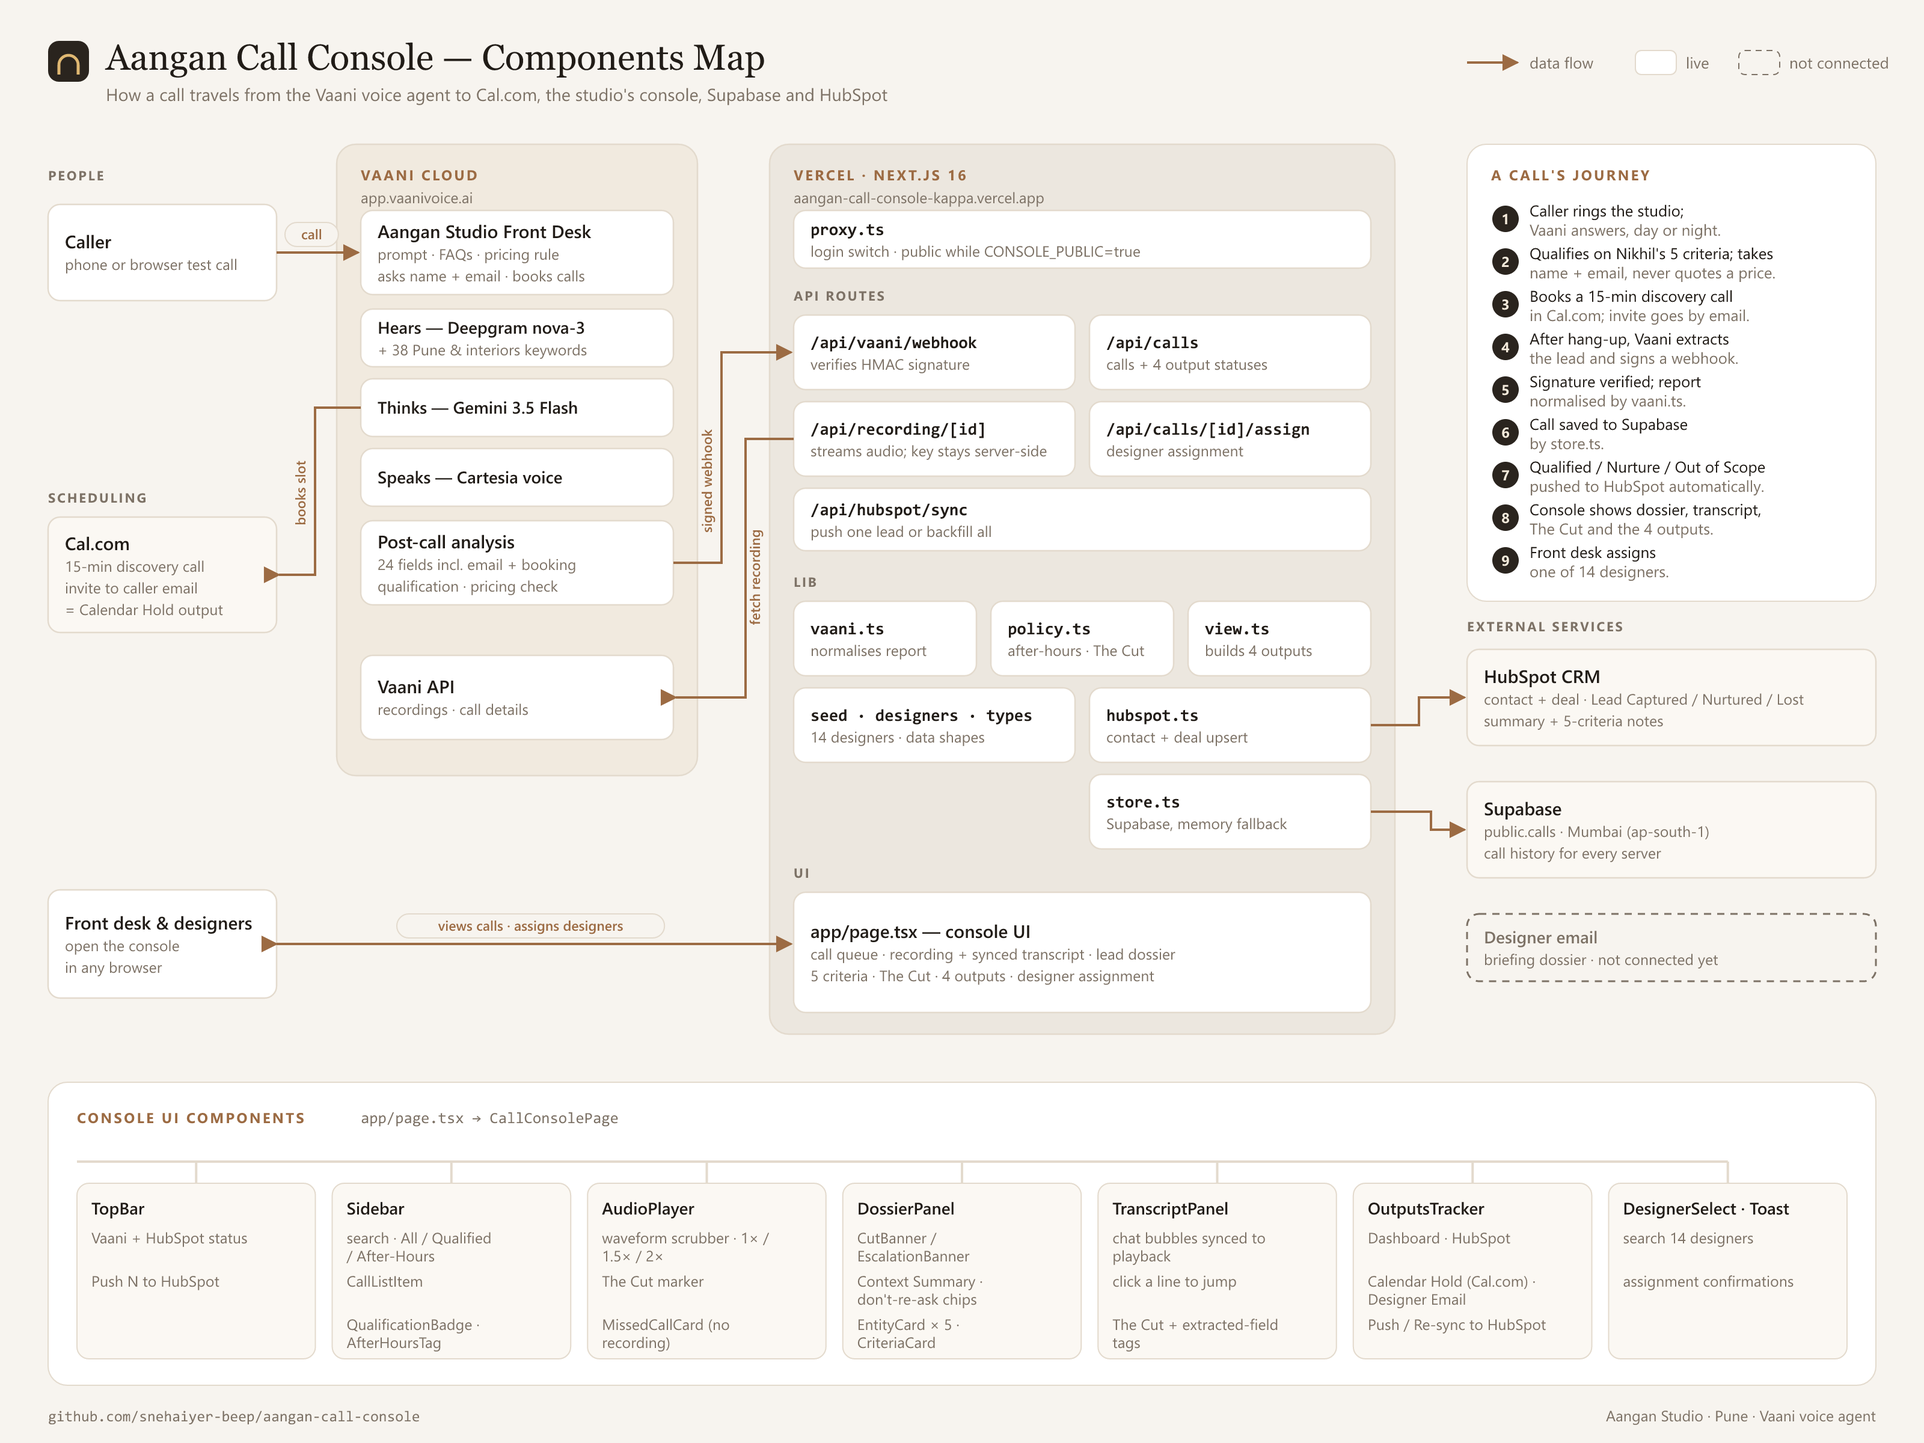
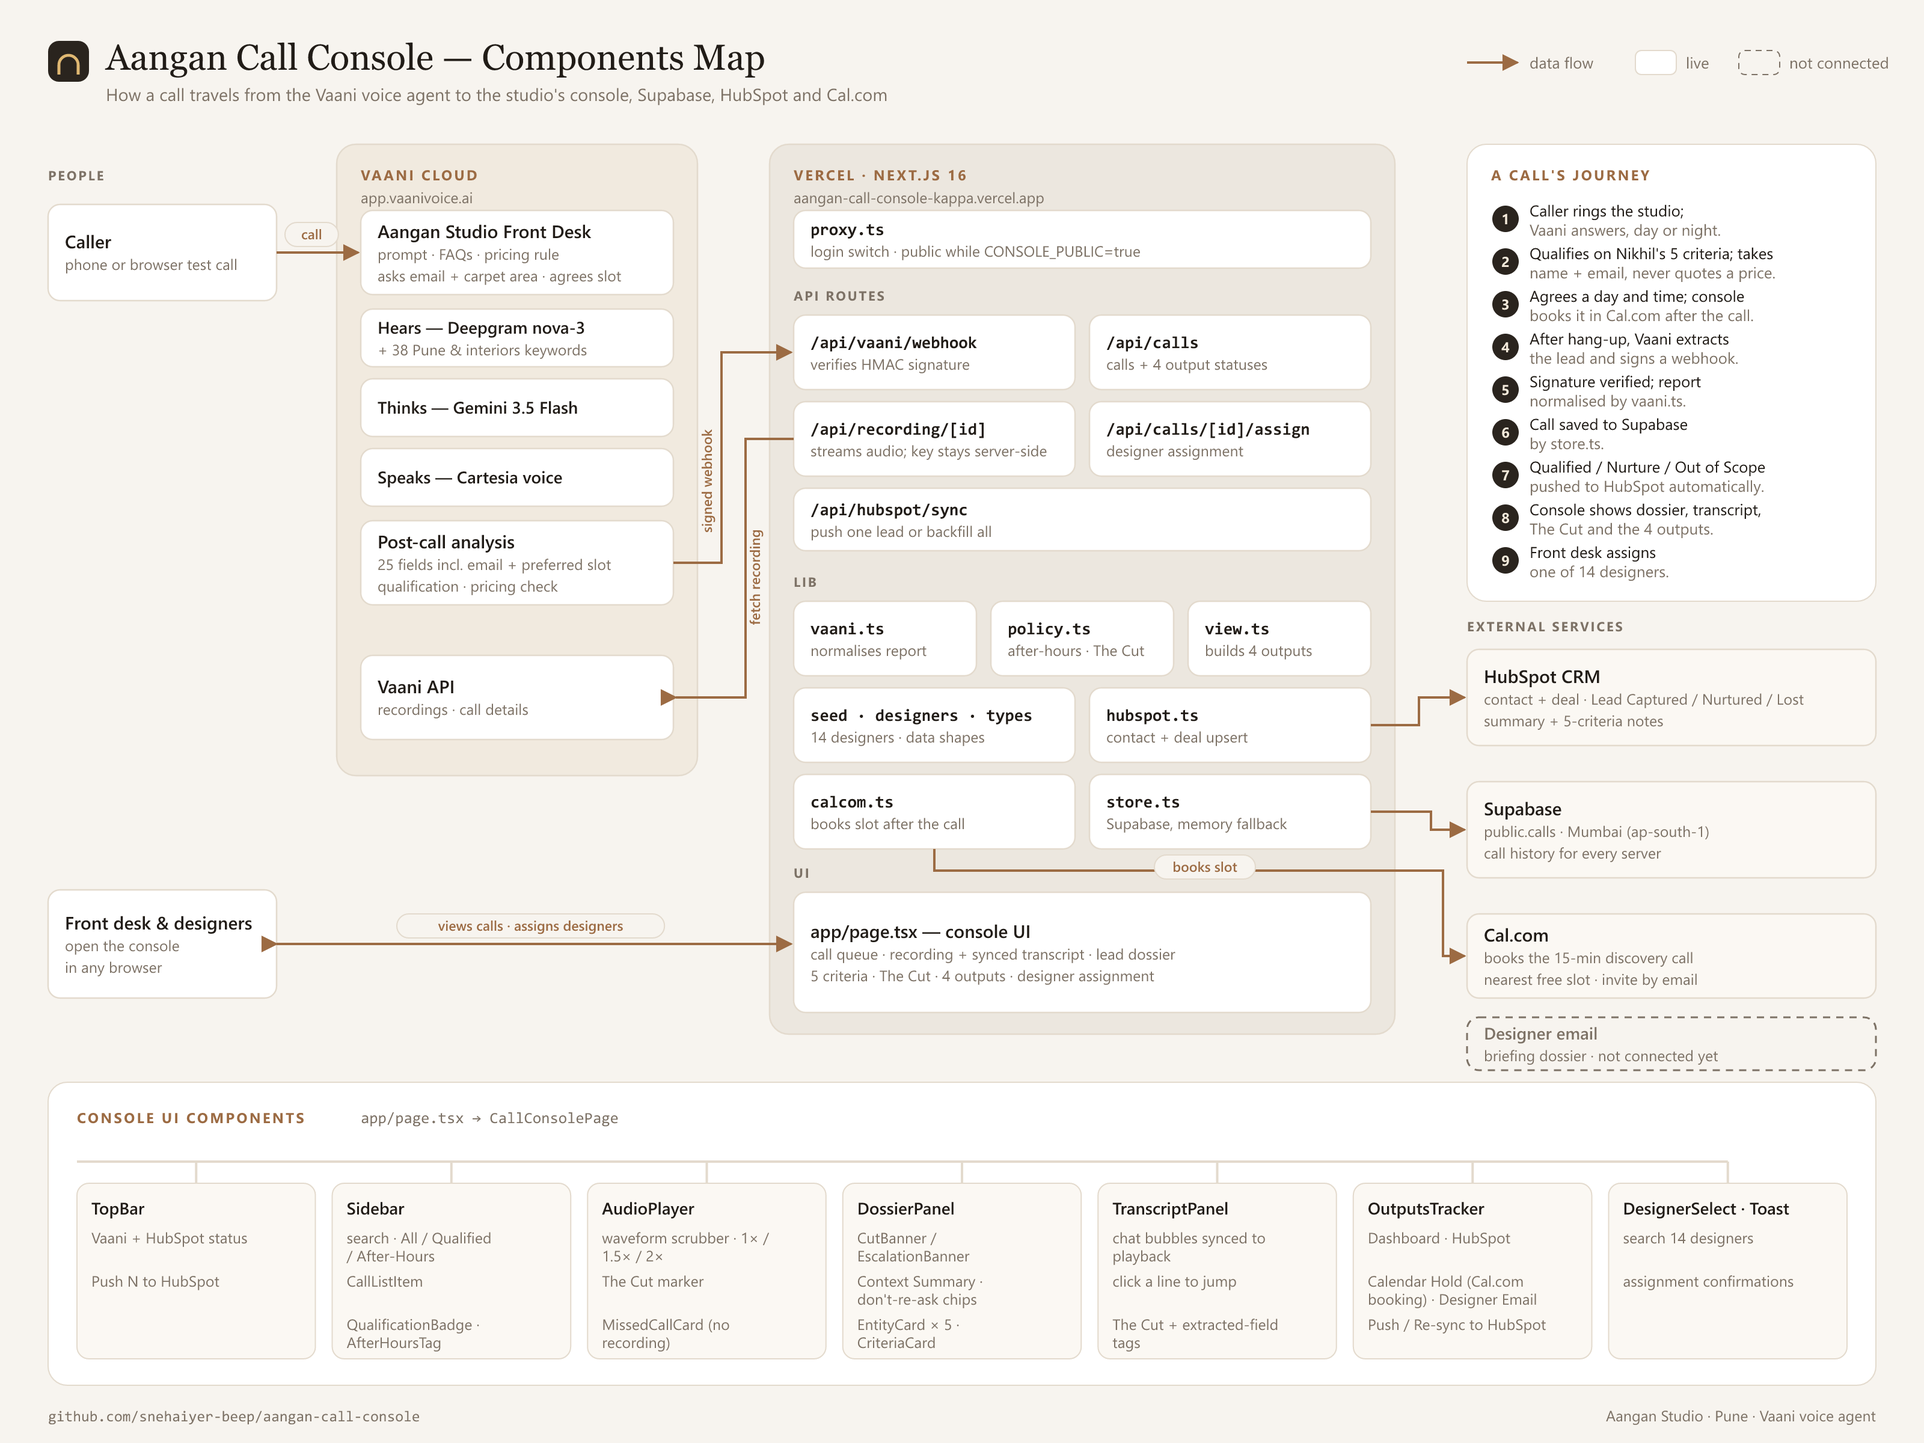
Book discovery calls in Cal.com from the console
Vaani's Cal.com integration never gave the agent a booking tool, so calls
were never booked (and the agent claimed they were). Now:

- The agent collects email, carpet area and a preferred day/time, reads
  the full date back, and never says a meeting is booked
- lib/calcom.ts books the 15-min event after the call: requested slot or
  the nearest free one; idempotent per call; errors surface on the dashboard
- Calendar Hold shows the real Cal.com booking; HubSpot notes include it (IST)
- scripts/run-trial-call.mjs runs a full end-to-end trial without phoning
- Components map and README updated

diff --git a/lib/calcom.ts b/lib/calcom.ts
@@ -1,0 +1,92 @@
+import "server-only";
+import type { CallLead, CallBooking } from "./types";
+
+/**
+ * Books the 15-min discovery call in Cal.com right after a qualified call.
+ * The agent collects the caller's email and preferred time; this books the slot
+ * (or the nearest free one) and Cal.com emails the invite.
+ * Env: CALCOM_API_KEY, CALCOM_EVENT_TYPE_ID.
+ */
+
+const API = "https://api.cal.com/v2";
+const TZ = "Asia/Kolkata";
+
+export function calcomConfigured(): boolean {
+  return Boolean(process.env.CALCOM_API_KEY?.trim() && process.env.CALCOM_EVENT_TYPE_ID?.trim());
+}
+
+async function cal<T>(path: string, version: string, init: RequestInit = {}): Promise<T> {
+  const res = await fetch(`${API}${path}`, {
+    ...init,
+    headers: {
+      Authorization: `Bearer ${process.env.CALCOM_API_KEY}`,
+      "cal-api-version": version,
+      "Content-Type": "application/json",
+      ...init.headers,
+    },
+    cache: "no-store",
+  });
+  const body = (await res.json().catch(() => ({}))) as { data?: unknown; error?: { message?: string }; message?: string };
+  if (!res.ok) throw new Error(`Cal.com ${res.status}: ${body.error?.message ?? body.message ?? res.statusText}`);
+  return body.data as T;
+}
+
+/** Open slot starts (ISO) between two instants, earliest first. */
+async function openSlots(from: Date, to: Date): Promise<string[]> {
+  const day = (d: Date) => d.toISOString().slice(0, 10);
+  const data = await cal<Record<string, { start: string }[]>>(
+    `/slots?eventTypeId=${process.env.CALCOM_EVENT_TYPE_ID}&start=${day(from)}&end=${day(to)}&timeZone=${TZ}`,
+    "2024-09-04",
+  );
+  return Object.values(data ?? {})
+    .flat()
+    .map((s) => s.start)
+    .filter((s) => Date.parse(s) >= from.getTime())
+    .sort((a, b) => Date.parse(a) - Date.parse(b));
+}
+
+/**
+ * Picks the requested start if it is open; otherwise the first open slot at or after it.
+ * With no usable request, the first open slot at least 2 hours from now.
+ */
+async function chooseSlot(requested: string | undefined): Promise<{ start: string; exact: boolean }> {
+  const soonest = Date.now() + 2 * 3600_000;
+  const want = requested && Date.parse(requested) > soonest ? new Date(Date.parse(requested)) : new Date(soonest);
+  const slots = await openSlots(want, new Date(want.getTime() + 14 * 86400_000));
+  if (!slots.length) throw new Error("No open slots in the next 14 days");
+  const exact = slots.find((s) => Math.abs(Date.parse(s) - want.getTime()) < 60_000);
+  return { start: exact ?? slots[0], exact: Boolean(exact && requested) };
+}
+
+/** Books the discovery call for a qualified caller. Never books twice for the same call. */
+export async function bookDiscoveryCall(call: CallLead): Promise<CallBooking | undefined> {
+  if (!calcomConfigured() || call.qualification !== "Qualified" || !call.email) return undefined;
+  if (call.booking?.status === "booked" && call.booking.uid) return call.booking;
+
+  try {
+    const { start, exact } = await chooseSlot(call.booking?.requested);
+    const booking = await cal<{ uid: string; start: string }>("/bookings", "2024-08-13", {
+      method: "POST",
+      body: JSON.stringify({
+        start: new Date(start).toISOString(),
+        eventTypeId: Number(process.env.CALCOM_EVENT_TYPE_ID),
+        attendee: { name: call.callerName ?? "Aangan enquiry", email: call.email, timeZone: TZ, language: "en" },
+        metadata: { callId: call.reference, source: "aangan-call-console" },
+      }),
+    });
+    return {
+      status: "booked",
+      at: booking.start ?? start,
+      uid: booking.uid,
+      source: "console",
+      requested: call.booking?.requested,
+      note: call.booking?.requested && !exact ? "Requested time was taken — booked the nearest free slot" : undefined,
+    };
+  } catch (err) {
+    return {
+      status: "not booked",
+      requested: call.booking?.requested,
+      error: err instanceof Error ? err.message : String(err),
+    };
+  }
+}

diff --git a/app/api/vaani/webhook/route.ts b/app/api/vaani/webhook/route.ts
@@ -1,6 +1,7 @@
 import { NextResponse } from "next/server";
 import { hubspotConfigured, pushToHubSpot, SYNCABLE } from "@/lib/hubspot";
-import { recordHubSpot, upsertCall } from "@/lib/store";
+import { bookDiscoveryCall, calcomConfigured } from "@/lib/calcom";
+import { getCall, recordHubSpot, upsertCall } from "@/lib/store";
 import { normalize, rememberStart, verifySignature, type VaaniEvent } from "@/lib/vaani";
 
 /** Field names and types only (never values), for logs. */
@@ -56,10 +57,21 @@ export async function POST(req: Request) {
         }
         return NextResponse.json({ ok: false, saved });
       }
-      await upsertCall(call);
-      // Live leads go straight to the CRM — no one has to remember to push them.
-      // Test calls (call_id "test-…", see scripts/send-test-webhook.mjs) stay out of HubSpot.
+      // Test calls (call_id "test-…", see scripts/send-test-webhook.mjs) stay out of Cal.com and HubSpot.
       const isTest = call.reference.startsWith("test-");
+
+      // Keep an existing booking if Vaani re-sends the same call, so it is never booked twice.
+      const previous = await getCall(call.id);
+      if (previous?.booking?.uid) call.booking = previous.booking;
+
+      // Book the 15-min discovery call in Cal.com for qualified callers who gave an email.
+      if (!isTest && call.booking?.status !== "booked" && calcomConfigured()) {
+        const booking = await bookDiscoveryCall(call);
+        if (booking) call.booking = booking;
+      }
+      await upsertCall(call);
+
+      // Live leads go straight to the CRM — no one has to remember to push them.
       if (!isTest && hubspotConfigured() && SYNCABLE.includes(call.qualification)) {
         await recordHubSpot(call.id, await pushToHubSpot(call));
       }

diff --git a/lib/view.ts b/lib/view.ts
@@ -79,23 +79,28 @@ function calendarOutput(call: CallLead): AutomationOutput {
     return {
       key: "calendar",
       status: "delivered",
-      detail: `Booked on Cal.com by Vaani · ${bookingLabel(b.at) ?? "time confirmed on the call"}`,
+      detail: `Booked on Cal.com · ${bookingLabel(b.at) ?? "time confirmed on the call"}`,
+      at: b.note,
       meta: [
         { label: "Meeting", value: "15-min discovery call" },
         { label: "Invite sent to", value: call.email ?? "email not captured" },
+        ...(b.requested ? [{ label: "Caller asked for", value: bookingLabel(b.requested) ?? b.requested }] : []),
+        { label: "Booked by", value: b.source === "vaani" ? "Vaani, on the call" : "Console, after the call" },
       ],
     };
   }
   if (call.handledBy !== "Vaani") {
     return { key: "calendar", status: "pending", detail: "Book a 15-min discovery call — taken by the front desk before Cal.com" };
   }
+  if (b?.error) {
+    return { key: "calendar", status: "failed", detail: `Cal.com booking failed: ${b.error}` };
+  }
   return {
     key: "calendar",
     status: "pending",
-    detail:
-      b?.status === "not booked"
-        ? "Offered on the call but not booked — email the caller two slots"
-        : "No slot booked on the call — book a 15-min discovery call",
+    detail: call.email
+      ? "No slot booked — book a 15-min discovery call"
+      : "No email captured on the call, so no invite could be sent — call back to book",
   };
 }
 

diff --git a/lib/types.ts b/lib/types.ts
@@ -65,6 +65,19 @@ export interface HubSpotSync {
   error?: string;
 }
 
+export interface CallBooking {
+  status: "booked" | "not booked" | "not offered";
+  /** Confirmed start (ISO). */
+  at?: string;
+  /** Caller's preferred start as captured on the call (ISO, IST). */
+  requested?: string;
+  /** Cal.com booking uid. */
+  uid?: string;
+  source?: "console" | "vaani";
+  note?: string;
+  error?: string;
+}
+
 export interface CallLead {
   id: string;
   reference: string;
@@ -73,8 +86,8 @@ export interface CallLead {
   phone: string | null;
   /** Confirmed on the call; used for the Cal.com invite and the HubSpot contact. */
   email?: string | null;
-  /** Discovery-call booking made by the agent through Cal.com during the call. */
-  booking?: { status: "booked" | "not booked" | "not offered"; at?: string };
+  /** 15-min discovery call in Cal.com (booked by the console after the call, or by the agent). */
+  booking?: CallBooking;
   receivedAt: string;
   durationSec: number;
   handledBy: Handler;

diff --git a/lib/vaani.ts b/lib/vaani.ts
@@ -227,6 +227,8 @@ export function normalize(e: VaaniEvent): CallLead | null {
   const bookingRaw = pick(ent, "booking_status")?.toLowerCase();
   const bookingStatus = bookingRaw === "booked" || bookingRaw === "not booked" ? bookingRaw : "not offered";
   const bookingAt = bookingStatus === "booked" ? pick(ent, "booking_time") : undefined;
+  const preferred = pick(ent, "preferred_slot");
+  const requested = preferred && Number.isFinite(Date.parse(preferred)) ? preferred : undefined;
   const pricingQuoted = /^(yes|true)$/i.test(pick(both, "pricing_quoted") ?? "");
 
   const flags = [
@@ -240,7 +242,7 @@ export function normalize(e: VaaniEvent): CallLead | null {
     callerName: pick(ent, "caller_name") ?? null,
     phone,
     email,
-    booking: { status: bookingStatus, at: bookingAt },
+    booking: { status: bookingStatus, at: bookingAt, requested, source: bookingAt ? "vaani" : undefined },
     receivedAt,
     durationSec,
     handledBy: "Vaani",

diff --git a/lib/hubspot.ts b/lib/hubspot.ts
@@ -146,7 +146,7 @@ function dealDescription(call: CallLead, indicative: boolean): string {
     `Handled by: ${call.handledBy}${isAfterHours(call.receivedAt) ? " · after hours" : ""} · ${call.receivedAt}`,
     `Source: ${call.source ?? "Not stated"} · Designer: ${designer}`,
     call.booking?.status === "booked"
-      ? `Discovery call booked on Cal.com: ${call.booking.at ?? "time confirmed on the call"}${call.email ? ` (invite to ${call.email})` : ""}`
+      ? `Discovery call booked on Cal.com: ${call.booking.at ? new Date(call.booking.at).toLocaleString("en-IN", { timeZone: "Asia/Kolkata", weekday: "short", day: "numeric", month: "short", hour: "numeric", minute: "2-digit" }) + " IST" : "time confirmed on the call"}${call.email ? ` (invite to ${call.email})` : ""}`
       : "",
     indicative ? "Amount is an internal indicative estimate (carpet area × lowest band) — not a client quote." : "",
   ]

diff --git a/README.md b/README.md
@@ -1,6 +1,6 @@
 # Aangan Studio — Voice AI Call Console
 
-A front-desk and designer console for **Aangan Studio**, an interior design studio in Pune. The studio gets about 200 inbound calls a month, and a third of them arrive outside 10am–7pm. **Vaani**, a voice AI agent, now answers every call 24/7. It qualifies the caller against the founder's rubric, refuses to quote prices, takes their email, **books a 15-minute discovery call in Cal.com**, and hands this console a structured lead.
+A front-desk and designer console for **Aangan Studio**, an interior design studio in Pune. The studio gets about 200 inbound calls a month, and a third of them arrive outside 10am–7pm. **Vaani**, a voice AI agent, now answers every call 24/7. It qualifies the caller against the founder's rubric, refuses to quote prices, takes their email and preferred time, and hands this console a structured lead. The console then **books a 15-minute discovery call in Cal.com** and Cal.com emails the invite.
 
 **Live:** https://aangan-call-console-kappa.vercel.app
 
@@ -13,17 +13,18 @@ A front-desk and designer console for **Aangan Studio**, an interior design stud
 - **Lead dossier:** property and scope, carpet area, budget (only if the caller offered one), location, timeline, an AI summary, and "already captured, don't re-ask" notes for the designer.
 - **Nikhil's 5 criteria:** real project, service area, timeline, budget, decision-maker. Each shows pass, fail or unclear, with a reason.
 - **"The Cut" pricing guardrail:** detected from the transcript itself. It shows when the agent held policy and turns red if any figure was quoted.
-- **4 automation outputs:** Operational Dashboard ✅, HubSpot CRM ✅ (contact with email + deal, stage, pipeline value, notes), Calendar Hold ✅ (booked by Vaani in Cal.com during the call), Designer Email ⏳.
+- **4 automation outputs:** Operational Dashboard ✅, HubSpot CRM ✅ (contact with email + deal, stage, pipeline value, notes), Calendar Hold ✅ (booked in Cal.com by the console right after the call — nearest free slot if the requested one is taken), Designer Email ⏳.
 - **Designer assignment** across the 14-person team.
 
 ## Architecture
 
 ```
-Caller ──► Vaani agent (app.vaanivoice.ai) ──► Cal.com (books the 15-min discovery call, invite by email)
+Caller ──► Vaani agent (app.vaanivoice.ai)
               │  signed webhook: call_postprocessing (transcript, summary, entities, dispositions)
               ▼
         Next.js on Vercel ── /api/vaani/webhook (HMAC-SHA256 verified)
               │                    ├─► Supabase  (public.calls — call history)
+              │                    ├─► Cal.com   (books the 15-min discovery call, invite by email)
               │                    └─► HubSpot   (contact + deal, auto-push)
               └── Console UI (app/page.tsx) ◄── /api/calls
                    recordings streamed via /api/recording/[id] (Vaani key stays server-side)
@@ -38,6 +39,7 @@ Caller ──► Vaani agent (app.vaanivoice.ai) ──► Cal.com (books the 15
 | `app/api/recording/[id]` | Recording proxy, so the API key never reaches the browser |
 | `lib/vaani.ts` | Maps Vaani's payload to the console's `CallLead` |
 | `lib/hubspot.ts` | Contact + deal upsert. Re-pushing updates the same deal, never duplicates. |
+| `lib/calcom.ts` | Books the discovery call: requested slot or the nearest free one. Never books the same call twice. |
 | `lib/store.ts` | Supabase store, with an in-memory fallback for local dev |
 | `lib/policy.ts` | After-hours rules and pricing-guardrail detection |
 | `vaani/agent-config.json` | Agent definition: prompt, FAQ, greeting, speech keywords, post-call extraction |
@@ -45,7 +47,7 @@ Caller ──► Vaani agent (app.vaanivoice.ai) ──► Cal.com (books the 15
 | `supabase/schema.sql` | Database table |
 | `scripts/` | Create/update the Vaani agent, send a signed test webhook, re-import a call from Vaani |
 
-**Cal.com** is connected inside Vaani (Settings → Integrations → Cal.com, with the event type for the discovery call). The agent asks every new caller for an email, reads it back, and for qualified callers checks availability, books a slot and confirms it before the call ends.
+**Cal.com:** the agent asks every new caller for an email and agrees a day and time. It never says the meeting is booked. When the call report arrives, `lib/calcom.ts` books the **15 min meeting** event type at that time, or the nearest free slot, and Cal.com emails the invite. Booking from the console rather than through a tool inside the call means it can be verified and retried, and the dashboard shows the real booking.
 
 The agent's knowledge comes from the studio's own documents:
 - `services.md`: what the studio does and where.
@@ -68,6 +70,7 @@ npm run dev                  # http://localhost:3100
 | `HUBSPOT_PIPELINE_ID`, `HUBSPOT_STAGE_*` | Which pipeline and stages deals land in |
 | `SUPABASE_URL`, `SUPABASE_SECRET_KEY` | Database. Run `supabase/schema.sql` once. |
 | `CONSOLE_USER`, `CONSOLE_PASSWORD`, `CONSOLE_PUBLIC` | Basic-auth login. Set `CONSOLE_PUBLIC=true` to disable it. |
+| `CALCOM_API_KEY`, `CALCOM_EVENT_TYPE_ID` | Cal.com booking of the discovery call |
 | `SHOW_SEED_CALLS` | `true` shows the Sept 2026 example calls |
 
 All of these are server-only. Never prefix one with `NEXT_PUBLIC_`, and never commit `.env.local`.
@@ -75,7 +78,8 @@ All of these are server-only. Never prefix one with `NEXT_PUBLIC_`, and never co
 **Useful scripts**
 
 ```bash
-node scripts/send-test-webhook.mjs [baseUrl]         # signed fake call (kept out of HubSpot)
+node scripts/send-test-webhook.mjs [baseUrl]         # signed fake call (kept out of HubSpot and Cal.com)
+node scripts/run-trial-call.mjs <email> [ISO time]   # full end-to-end trial: real Cal.com booking + HubSpot
 node scripts/import-vaani-call.mjs <call_id> [url]   # pull a real call from Vaani if a webhook was missed
 node scripts/update-vaani-persona.mjs                # push prompt / keyword changes to the agent
 node scripts/update-vaani-analysis.mjs               # push post-call extraction changes
@@ -84,6 +88,5 @@ node scripts/update-vaani-analysis.mjs               # push post-call extraction
 ## Not built yet
 
 - **Designer Email** (output 3) shows as *Not connected*.
-- **Calendar Hold** status comes from Vaani's post-call extraction (`booking_status`, `booking_time`) — i.e. what the booking tool confirmed on the call — not from Cal.com's API.
 - **Phone number:** the agent is tested from Vaani's in-browser test calls. A real number needs Vaani's Set Up Telephony.
 - **Designer roster:** 4 real names (Pooja Kulkarni, Amit Shinde, Tanvi Joshi, Aryan); the other 10 are placeholders.
